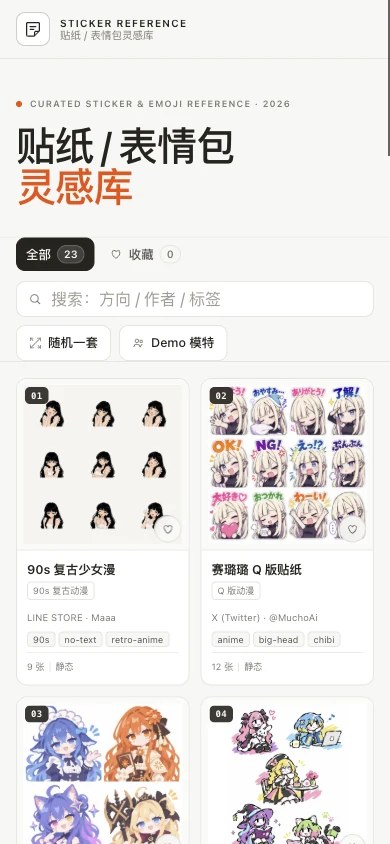
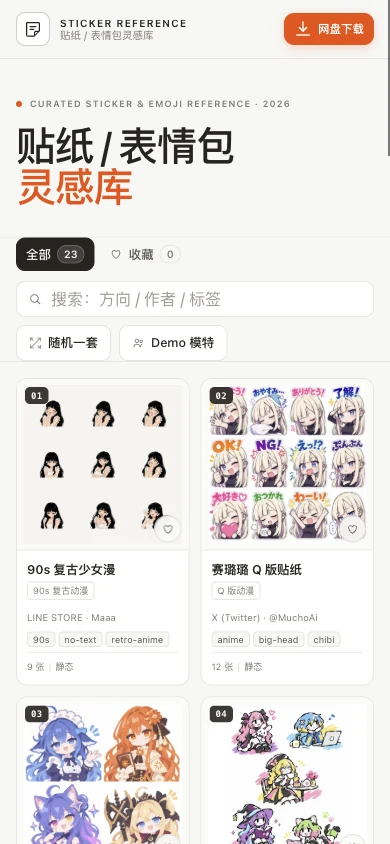
Add prominent netdisk download CTA

Changed region(s): [[0.7077, 0.0, 0.9846, 0.0616]]

diff --git a/assets/style.css b/assets/style.css
@@ -50,6 +50,12 @@ button{font:inherit;cursor:pointer;color:inherit}
 .brand-text i{font-style:normal;font-size:11.5px;color:var(--muted);white-space:nowrap}
 .topbar-right{display:flex;align-items:center;gap:14px;flex:none}
 .top-note{font-size:11.5px;color:var(--muted);white-space:nowrap}
+.download-cta{display:inline-flex;align-items:center;gap:9px;padding:9px 14px;border-radius:10px;background:var(--accent);color:#fff;box-shadow:0 3px 10px rgba(245,78,0,.22);transition:background .15s,transform .15s,box-shadow .15s}
+.download-cta:hover{background:#d94400;transform:translateY(-1px);box-shadow:0 5px 14px rgba(245,78,0,.28)}
+.download-cta .ico{width:18px;height:18px;stroke-width:2}
+.dl-copy{display:flex;flex-direction:column;line-height:1.15;text-align:left}
+.dl-copy b{font-size:12.5px;font-weight:600;white-space:nowrap}
+.dl-copy i{font-style:normal;font-size:9.5px;opacity:.86;white-space:nowrap}
 
 /* ---------- hero ---------- */
 .hero{padding:68px 0 48px}
@@ -196,6 +202,9 @@ h1 em{font-style:normal;color:var(--accent)}
   .brand-text b{font-size:10px}
   .brand-text i{font-size:10.5px}
   .top-note{display:none}
+  .download-cta{padding:7px 10px;gap:6px}
+  .dl-copy i{display:none}
+  .dl-copy b{font-size:11.5px}
   .hero{padding:38px 0 30px}
   .eyebrow{font-size:9px;letter-spacing:.12em;margin-bottom:14px}
   h1{font-size:40px;letter-spacing:-1.3px}

diff --git a/index.html b/index.html
@@ -26,6 +26,10 @@
     </a>
     <div class="topbar-right">
       <span class="top-note">23 套 · 23 个方向</span>
+      <a class="download-cta" href="https://pan.quark.cn/s/b80a94cc8fc1" target="_blank" rel="noopener" title="包含本站 23 套与 Skills，做同款表情包">
+        <svg class="ico" viewBox="0 0 24 24" aria-hidden="true"><path d="M12 3v11"/><path d="m7 10 5 5 5-5"/><path d="M4 20h16"/></svg>
+        <span class="dl-copy"><b>网盘下载</b><i>23 套 + Skills · 做同款表情包</i></span>
+      </a>
     </div>
   </div>
 </header>

diff --git a/README.md b/README.md
@@ -4,6 +4,12 @@
 
 90s 复古动漫、Q 版动漫、粉彩 Q 版人像、杂涂手绘、照片手绘混合、稚拙涂鸦、柔和绘本、软陶立体贴纸、圆润 Q 版、猫猫反应表情、柔和灰调动漫、蜡笔质感、粉色贴纸排版、和纸拼贴、日文粉彩大头、羊毛毡娃娃、Riso 独立志、儿童蜡笔肖像、3D 搪胶玩具、像素 Q 版、粗黑线梗图、手绘动画概念、简笔水粉头像
 
+## 网盘下载
+
+右上角「网盘下载」包含本站 23 套表情包与 Skills，可做同款表情包：
+
+https://pan.quark.cn/s/b80a94cc8fc1
+
 ![站点首页](screenshots/home.webp)
 
 ![详情页](screenshots/detail.webp)
